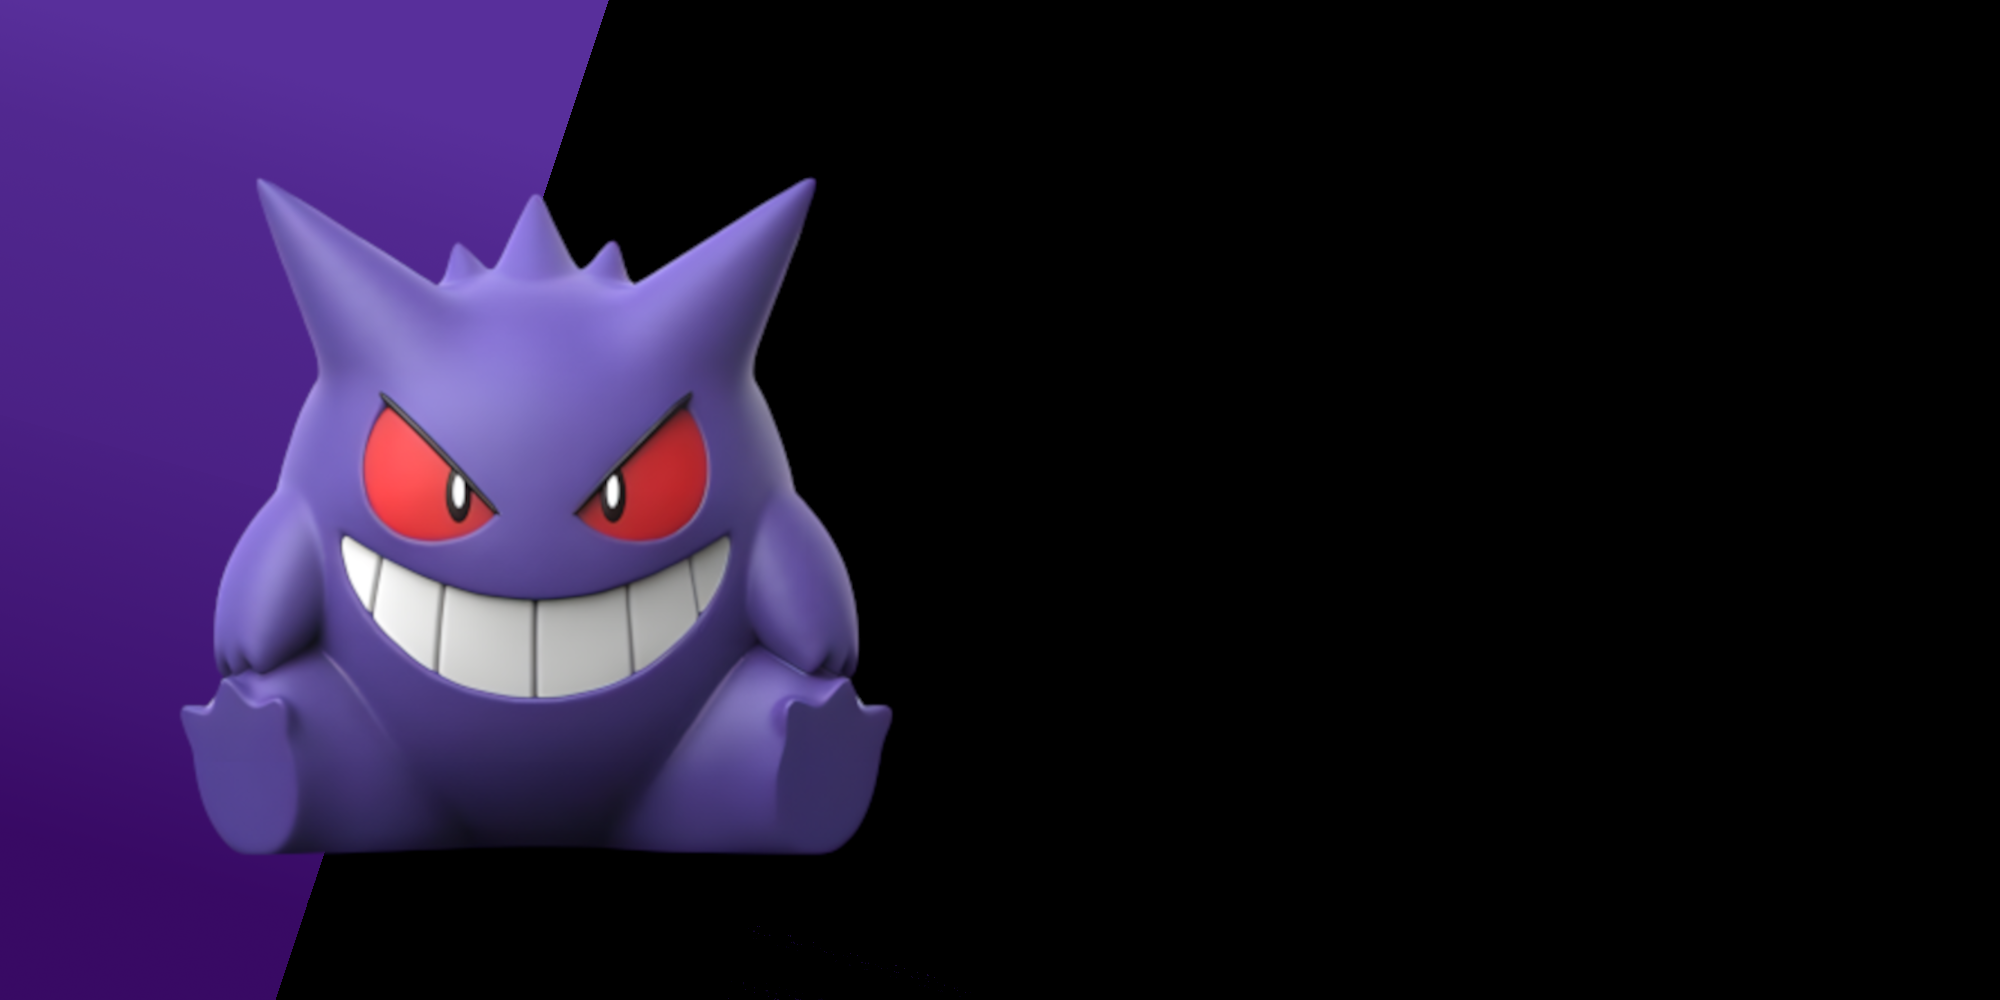
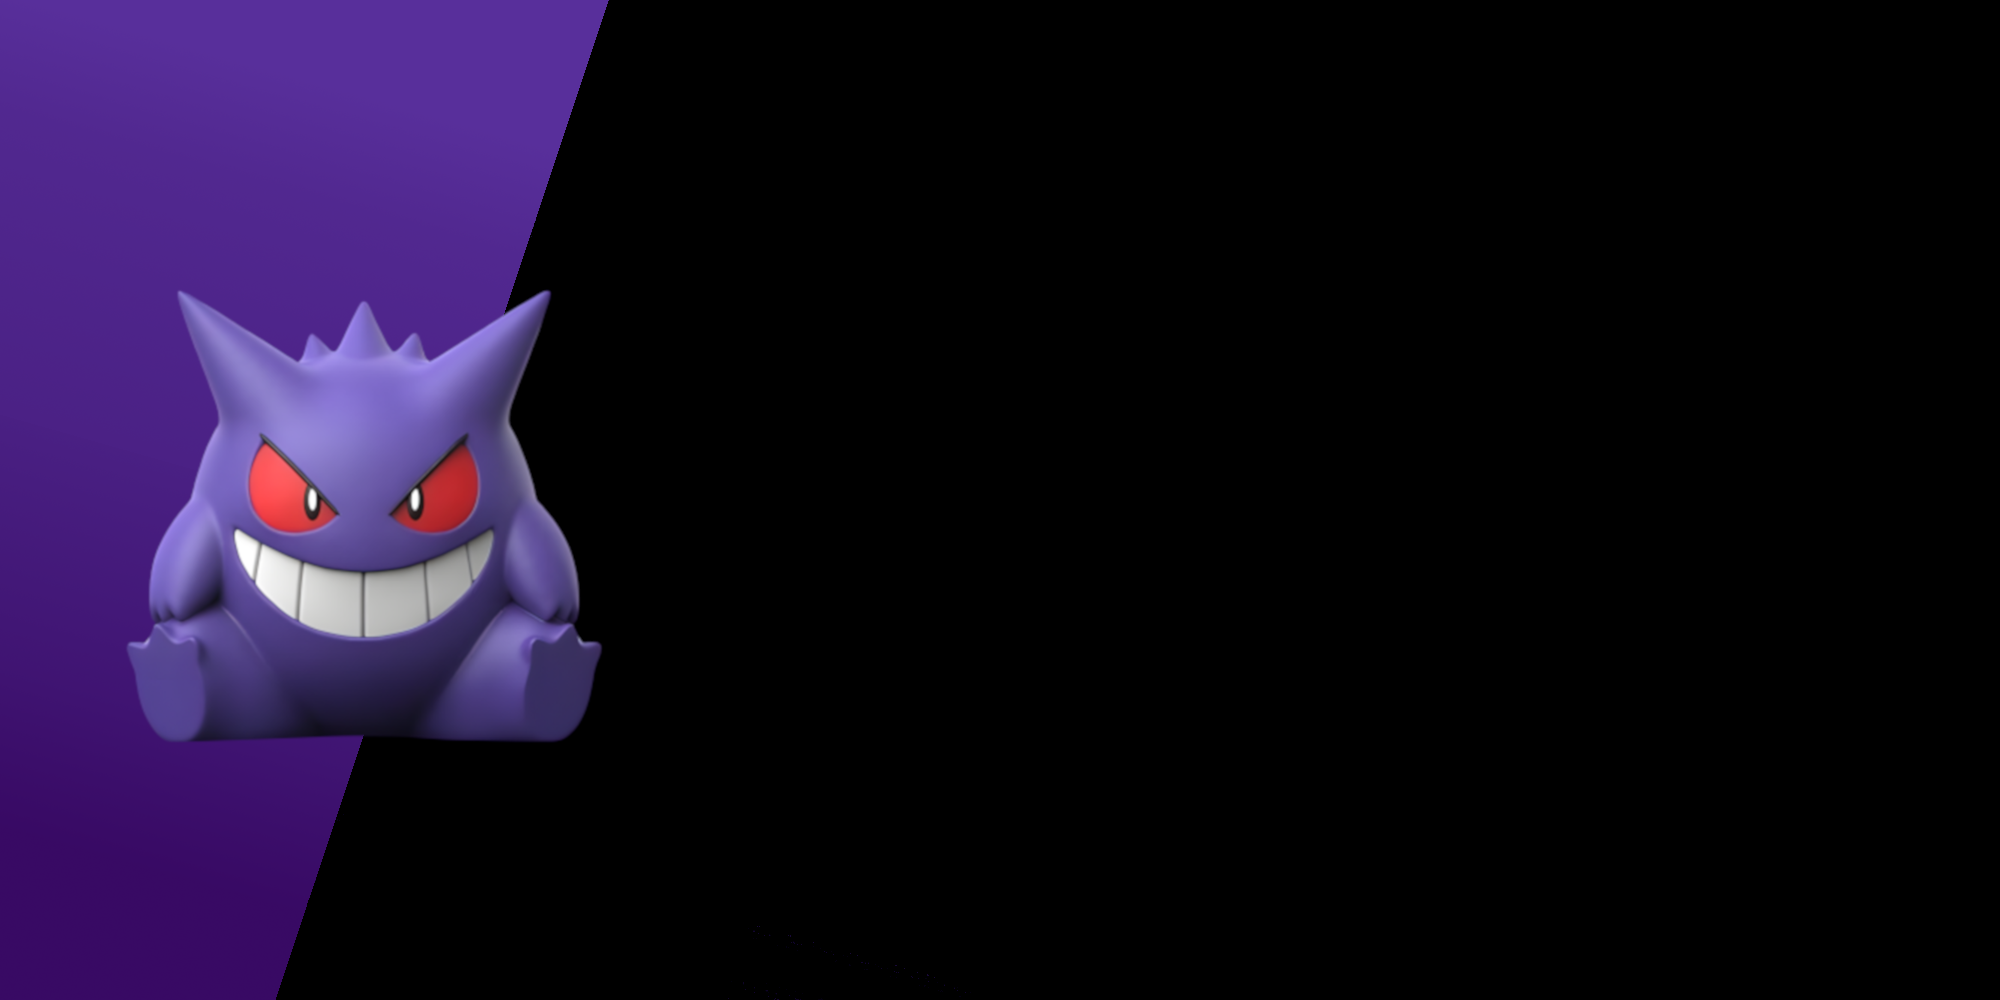
gg

Changed region(s): [[0.062, 0.186, 0.465, 0.868]]

diff --git a/my-app/src/app/page.tsx b/my-app/src/app/page.tsx
@@ -20,7 +20,7 @@ export default function Home() {
 
   return (
     <>
-      <div id="home" className="flex justify-center items-center h-screen font-semibold text-center bg-[url(/tapeta.png)] bg-no-repeat bg-cover">
+      <div id="home" className="flex justify-center items-center h-screen font-semibold text-center bg-[url(/tapeta.png)] siemano bg-no-repeat bg-cover">
         <section >
           <div className="text-5xl mb-4 text-violet-100" >
             Introducing <span className="text-violet-500 font-bold">ZSG POKEDEX</span>

diff --git a/my-app/src/app/globals.css b/my-app/src/app/globals.css
@@ -9,7 +9,12 @@ html {
     border: none !important;
 }
 
-
+.siemano {
+    background-position: center !important;
+    background-repeat: no-repeat !important;
+    background-size: cover !important;
+    background-clip: border-box;
+}
 
 .background {
     background-color: #8b5cf6 !important;
